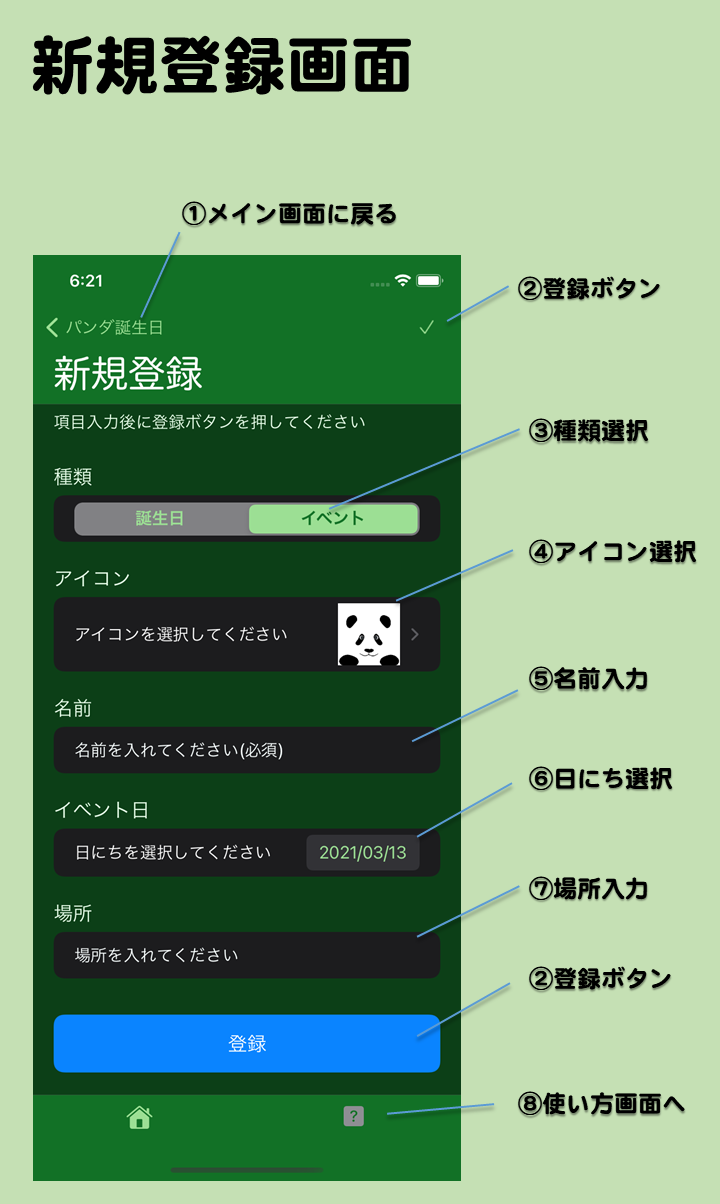
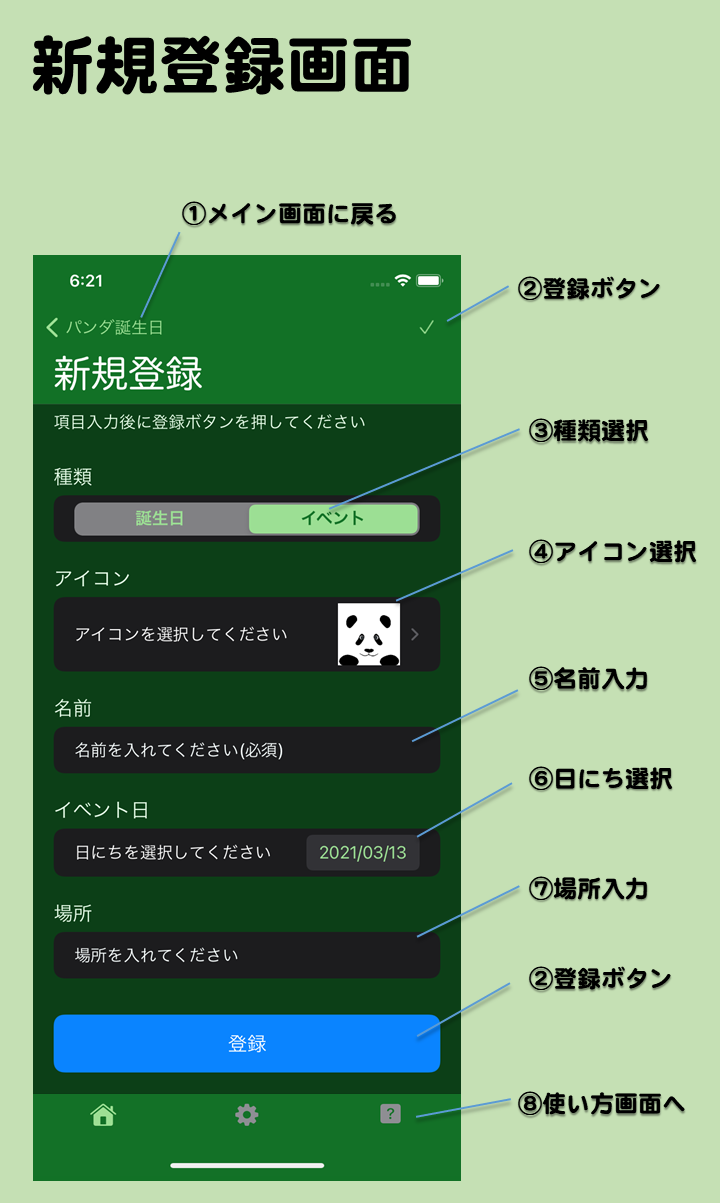
update help pages

diff --git a/pandabirthday/v2_0/help_settingPage.html b/pandabirthday/v2_0/help_settingPage.html
@@ -2,7 +2,7 @@
 <html lang="ja">
   <head>
     <meta http-equiv="content-type" content="text/html; charset=UTF-8">
-    <title>help_detailPage.html</title>
+    <title>help_settingPage.html</title>
     <style type="text/css">
     #body {
       font-family: "Helvetica", "ヒラギノ角ゴ ProN W3";
@@ -42,32 +42,29 @@
 </style></head>
   <body id="body">
     <p></p>
-    <img src="help_detailpage.png" alt="detail page image" title="detail_page ">
+    <img src="help_setting.png" alt="setting page image" title="setting_page ">
     <dl>
-      <dt>詳細情報画面とは</dt>
-      <dd>メイン画面で情報欄をタップして移動してくる画面です。メイン画面で選んだパンダやユーザー登録情報の詳細情報を表示します。パンダや情報の種類によって表示される項目も変わります。</dd>
+      <dt>設定画面とは</dt>
+      <dd>メイン画面などで画面下の歯車アイコンをタップして移動してくる画面です。データの保存や読み込みやリセットなどができます。</dd>
       <dd><br></dd>
       <dt>画面の説明</dt>
       <dd></dd>
-      <dt>①メイン画面に戻る</dt>
-      <dd>メイン画面に戻ります。</dd>
-      <dt>②日付表示切替</dt>
-      <dd>このページの誕生日や来日日、帰国期日の表示形式を切り替えます。</dd>
-      <dt>③お気に入りボタン</dt>
-      <dd>押すとお気に入りに入れます。もう一度押すとお気に入りを解除します。</dd>
-      <dt>④誕生日と年齢</dt>
-      <dd>誕生日や年齢、人間年齢に換算した年齢などを表示します。イベントの場合はイベント日とイベントまでもしくはイベントからの日数を表示します。日付表示切り替えを押すことで日数の表示形式を切り換えられます。</dd>
-      <dt>⑤出生地と現住地</dt>
-      <dd>生まれた場所、今いる動物園を示します。イベントの場合はイベントの場所を表示します。パンダの情報ならタップするとそれぞれの場所の情報があるサイトをブラウザで開きます。</dd>
-      <dt>⑥帰国期日</dt>
-      <dd>帰国期日が決まっている場合にそれを表示します。中国から来日したパンダは来日日も表示します。</dd>
-      <dt>⑦関連情報</dt>
-      <dd>このパンダに関連する情報サイトへのリンクです。タップするとそれぞれのサイトをブラウザで開きます。</dd>
-      
-      <dt>⑧削除ボタン</dt>
-      <dd>タップすると該当の情報を削除できます。ユーザー登録情報にのみ表示されます。</dd>
-      <dt>⑨編集画面へ</dt>
-      <dd>タップすると編集画面に移動します。ユーザー登録情報にのみ表示されます。</dd>
+      <dt>①データ再読み込みボタン</dt>
+      <dd>Appデータをネットから再読み込みします。画像やデータが正しく読み込みできてないように見える時に押してください。</dd>
+      <dt>②登録データ書き出しボタン</dt>
+      <dd>ユーザーが新規登録画面や編集画面で登録・編集したデータをファイルに書き出します。バックアップのために使えます。<br>iPhoneにプリインストールされているファイルAppでパンダ誕生日Appのフォルダを見るとある pandaBirthdayUserData_default.txt というファイルがこれです。<br>ファイルAppで他のiPadやiPhoneにコピーしてそこのパンダ誕生日Appに読み込みさせることができます。</dd>
+      <dt>③お気に入り書き出しボタン</dt>
+      <dd>ユーザーが詳細情報画面でセットしたお気に入りの情報をファイルに書き出します。バックアップのために使えます。<br>ファイルAppでこのAppのフォルダを見るとある pandaBirthdayFavorites_default.txt という名前のファイルがこれです。<br>このファイルも登録データと同じようにファイルAppでコピーできます。</dd>
+      <dt>④登録データ読み込みボタン</dt>
+      <dd>②で書き出したユーザー登録データのファイルを読み込みます。</dd>
+      <dt>⑤お気に入り読み込みボタン</dt>
+      <dd>③で書き出したお気に入りデータのファイルを読み込みます。</dd>
+      <dt>⑥登録データリセットボタン</dt>
+      <dd>登録したデータをリセットして全て削除します。②で書き出したファイルは消えません。</dd>
+      <dt>⑦お気に入りリセットボタン</dt>
+      <dd>お気に入りをリセットして全て削除します。③で書き出したファイルは消えません。</dd>
+      <dt>⑧バージョン表示</dt>
+      <dd>Appのバージョン番号を表示します。AppStore にある最新のバージョンと同じか確認できます。</dd>
     </dl>
   </body>
 </html>

diff --git a/pandabirthday/v2_0/help_mainPage.html b/pandabirthday/v2_0/help_mainPage.html
@@ -67,6 +67,8 @@
       <dd>情報毎の日付を表示します。分類が帰国期日ならば帰国期日とそれまでの日数を示し、誕生月なら誕生月日と次の誕生日までの日にち、人間換算年代なら誕生日と人間年齢に換算した年齢、それ以外なら誕生日と経過日数を示します。日付表示切り替えアイコンをタップする度に表示方法が変わります。</dd>
       <dt>⑨使い方画面へ</dt>
       <dd>タップするとこの使い方画面を表示します。</dd>
+      <dt>⑩設定画面へ</dt>
+      <dd>タップすると設定画面に移動します。</dd>
     </dl>
   </body>
 </html>
